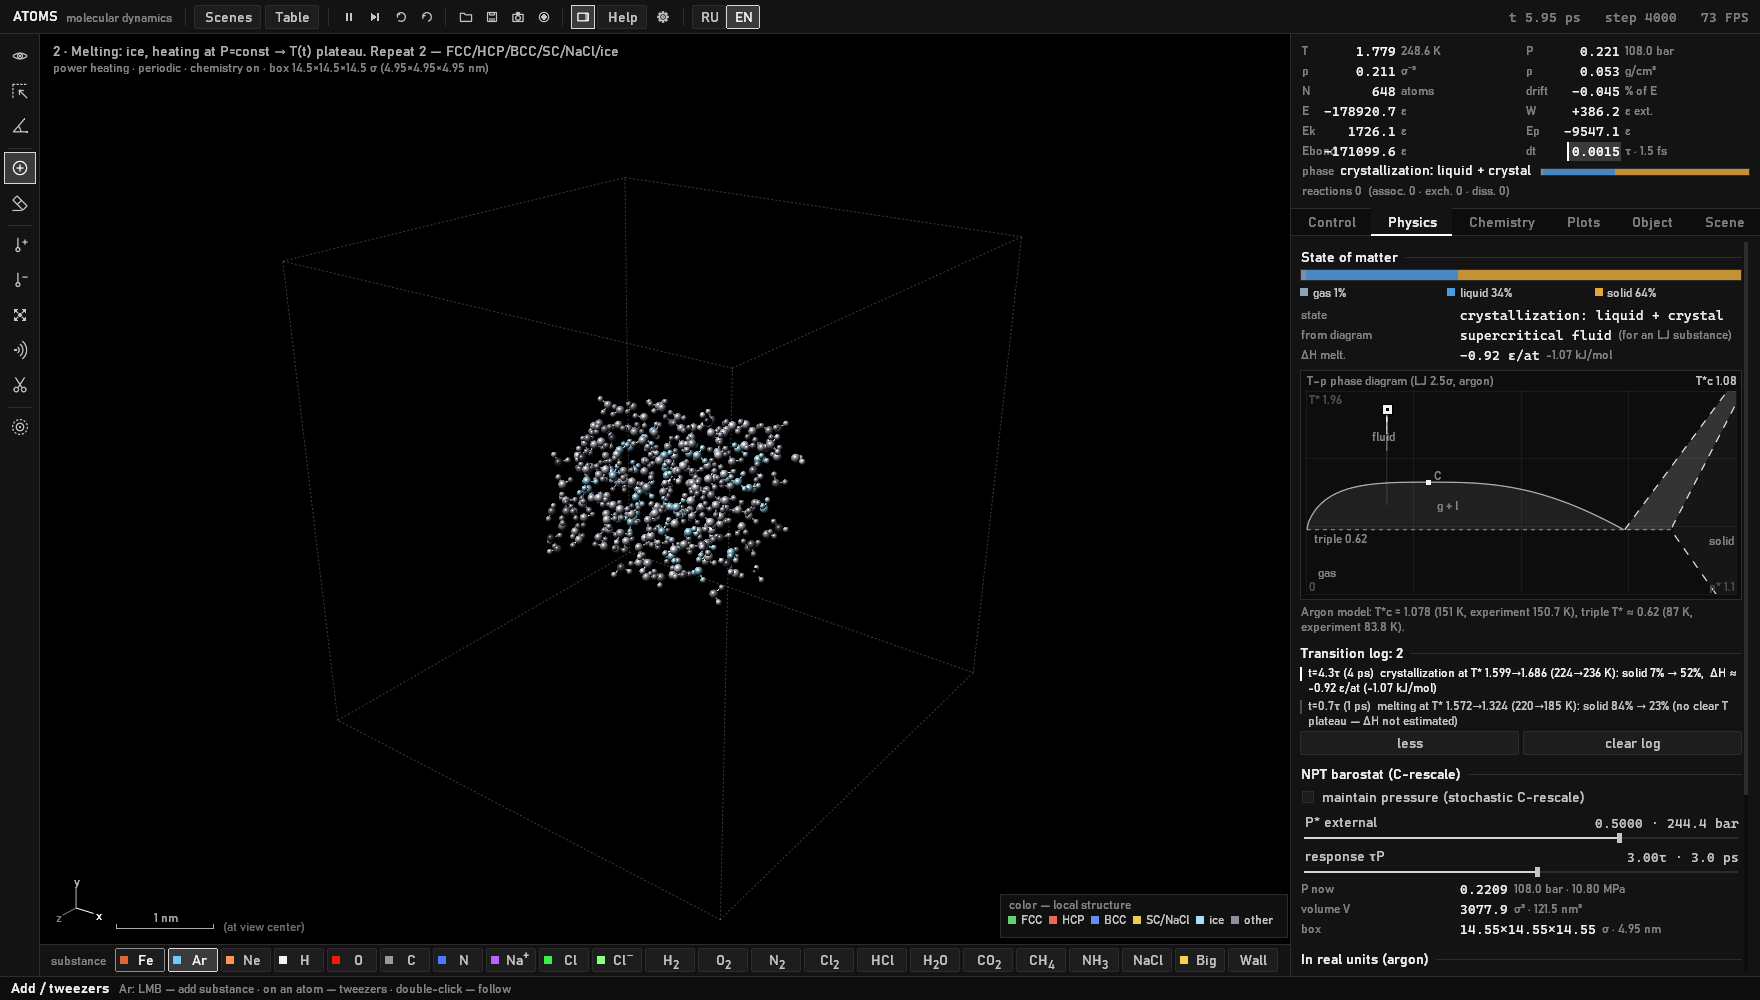
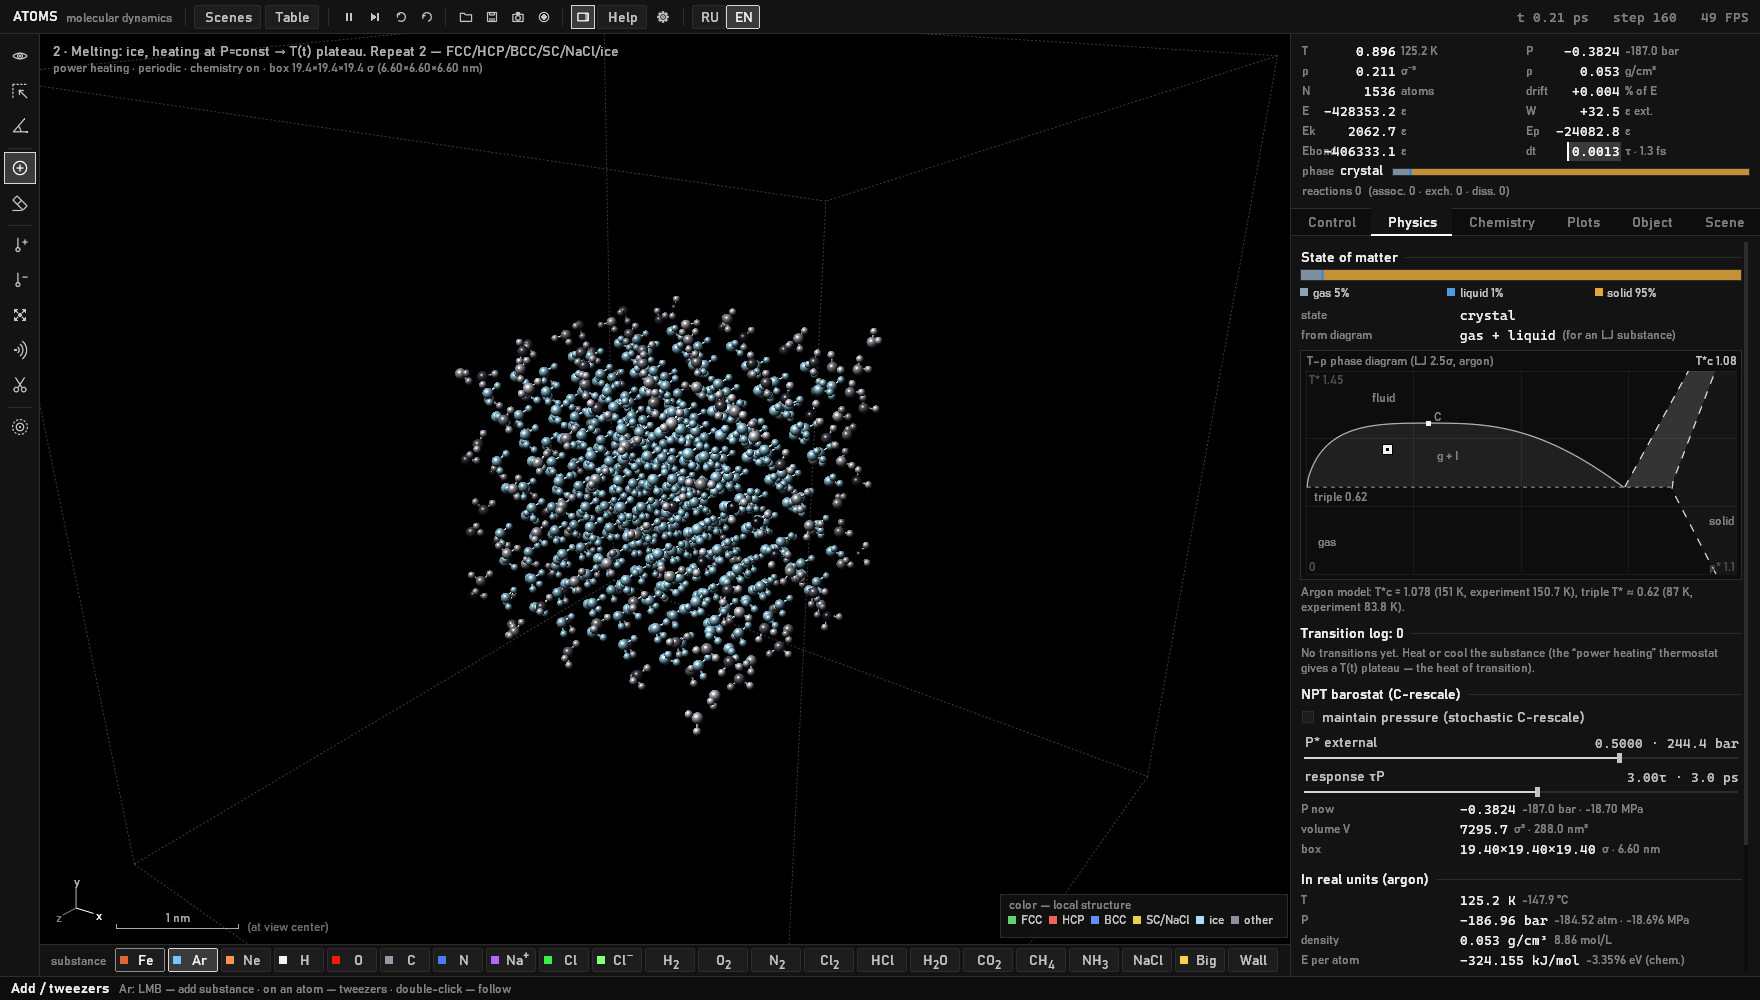
Картинка льда для README — кристалл в начале нагрева, ключ снимка notoast; история изменений

diff --git a/CHANGELOG.ru.md b/CHANGELOG.ru.md
@@ -17,7 +17,7 @@
 - Вкладка «Сцена» — редактор: периодичность по каждой оси, вид каждой стенки (обычная, липкая, тепловая со своей температурой, поглощающая, зеркальная), сосуд-шар или цилиндр, точная расстановка молекул по сетке и заливка области.
 - Установщик одним файлом `AtomsSetup.exe`: папка на выбор, ярлыки, удаление из списка программ; архив без установки остаётся.
 - Дрейф энергии: событие реакции не пересчитывало пары соседей, у которых менялось расстояние по связям (1-3 и 1-4), — у железа с кислородом дрейф доходил до 5–8% за 13 пс, теперь 0.1%; первый шаг горячей сцены шёл с базовым dt (скачок на 0.2%, а без RESPA — «взрыв»); шаг dt после уменьшения растёт осторожнее, и горение держит энергию в 3–5 раз точнее; искра больше не толкает газ целиком.
-- Исправления: после холодной сцены страж устойчивости откатывал горячую на каждом шаге; сразу после искры первые шаги шли с «холодным» шагом dt; переключение периодических границ на стенки рвало молекулы на краю ящика; горячий раствор соли анализ называл «кристаллизацией» (лёд теперь — по тетраэдрическому порядку молекулы, усреднённому за пикосекунду).
+- Исправления: после холодной сцены страж устойчивости откатывал горячую на каждом шаге; сразу после искры первые шаги шли с «холодным» шагом dt; переключение периодических границ на стенки рвало молекулы на краю ящика; горячий раствор соли анализ называл «кристаллизацией» (лёд теперь — по тетраэдрическому порядку молекулы, усреднённому за пикосекунду); лёд в сцене плавления таял в первую же пикосекунду — в решётке все протоны стояли по порядку и молекулы смотрели диполем в одну сторону, а натяжение идеальной решётки разогревало кристаллик на сотню кельвинов. Теперь протоны беспорядочны, как в настоящем льду, решётка перед стартом спускается вдоль сил, кристаллик больше и греется от 100 K: сначала оплавляется поверхность, ядро тает около 270–300 K; при сворачивании окна масштаб интерфейса пересчитывался под окно 200×200, и шрифты перепекались дважды.
 - Новые проверки без окна: `--semi`, `--nuck`, `--water`, `--walltest`, `--lighttest`, `--jitter` (плавность рисунка и температура каждого элемента).
 
 ## 4.1

diff --git a/CHANGELOG.md b/CHANGELOG.md
@@ -17,7 +17,7 @@
 - The Scene tab is an editor: periodicity per axis, the kind of each wall (normal, sticky, thermal with its own temperature, absorbing, mirror), a spherical or cylindrical vessel, exact grid placement of molecules and filling a region.
 - A one-file installer `AtomsSetup.exe`: a folder of your choice, shortcuts, uninstall from the list of apps; the portable archive stays.
 - Energy drift: a reaction event did not recompute the pairs of neighbors whose distance along bonds changed (1-3 and 1-4) — iron with oxygen drifted by 5–8% in 13 ps, now 0.1%; the first step of a hot scene ran with the base time step (a 0.2% jump, and an "explosion" without RESPA); after shrinking, the time step grows more carefully, and combustion keeps its energy 3–5 times better; a spark no longer pushes the whole gas.
-- Fixes: after a cold scene the stability guard rolled a hot one back on every step; right after a spark the first steps ran with a "cold" time step; switching periodic boundaries to walls tore molecules apart at the box edge; the analysis called a hot salt solution "crystallization" (ice is now judged by the tetrahedral order of a molecule averaged over a picosecond).
+- Fixes: after a cold scene the stability guard rolled a hot one back on every step; right after a spark the first steps ran with a "cold" time step; switching periodic boundaries to walls tore molecules apart at the box edge; the analysis called a hot salt solution "crystallization" (ice is now judged by the tetrahedral order of a molecule averaged over a picosecond); ice in the melting scene melted within the first picosecond — all protons in the lattice were ordered, every molecule's dipole pointed the same way, and the strain of the ideal lattice heated the crystal by a hundred kelvins. Now the protons are disordered as in real ice, the lattice is relaxed along the forces before the start, the crystal is larger and is heated from 100 K: first the surface premelts, then the core melts at about 270–300 K; minimizing the window recomputed the interface scale for a 200×200 window and rebuilt the fonts twice.
 - New headless checks: `--semi`, `--nuck`, `--water`, `--walltest`, `--lighttest`, `--jitter` (smoothness of the picture and the temperature of each element).
 
 ## 4.1
